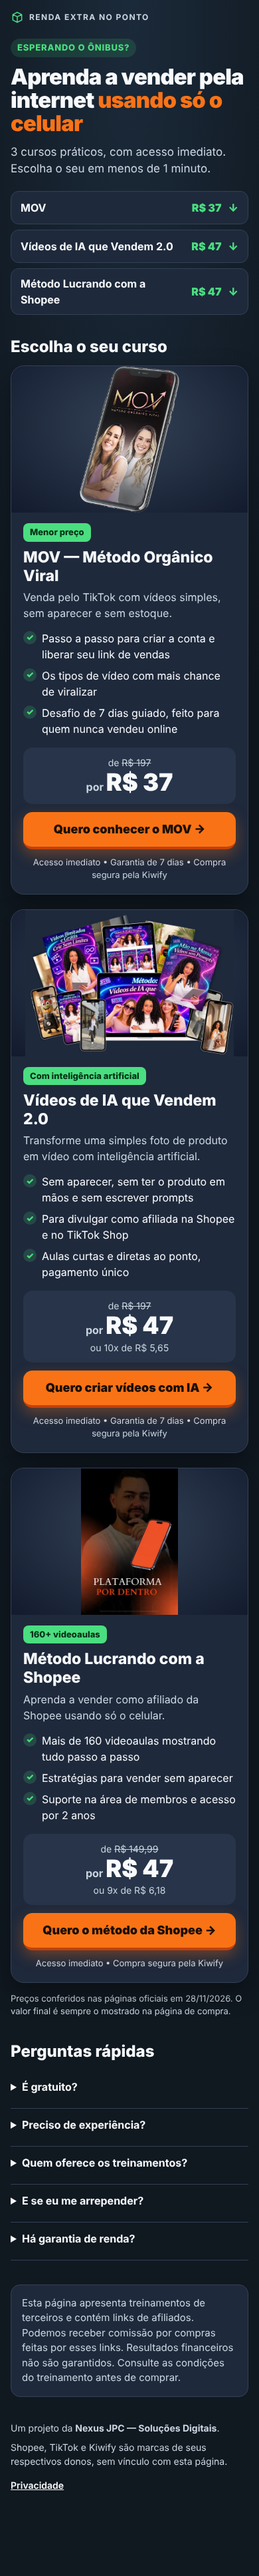
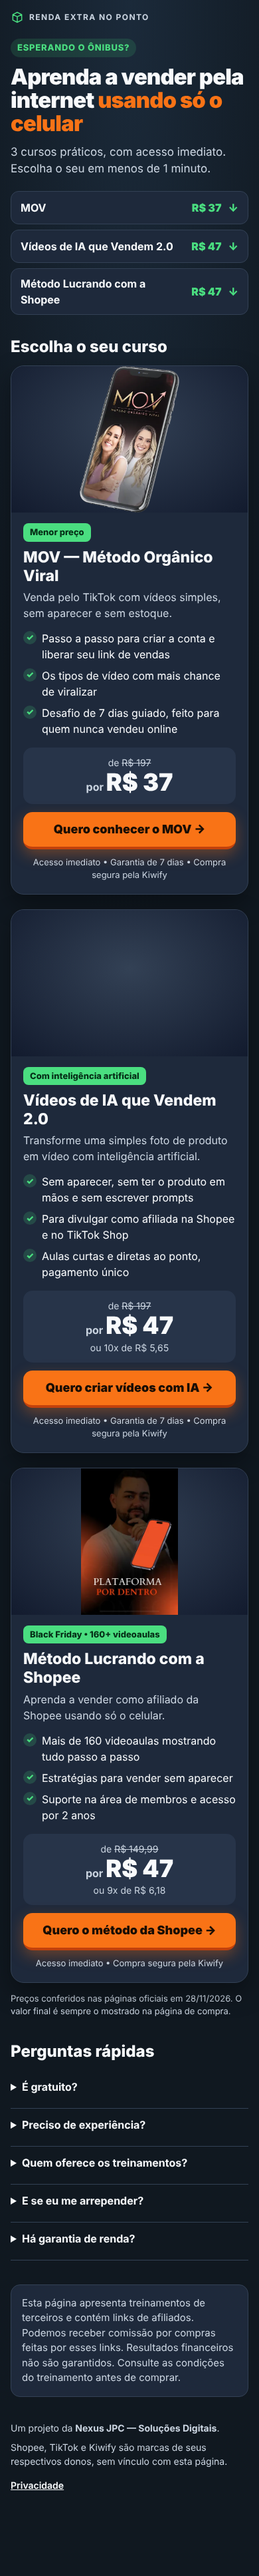
feat: preco promocional com data de fim (Shopee Black Friday) e tutorial do GA4
Claude-Session: https://claude.ai/code/session_01BcXwtmnyrDftFNMVLoomJm

Changed region(s): [[0.1231, 0.3411, 0.8923, 0.4341], [0.4, 0.6202, 0.6462, 0.6512]]

diff --git a/public/offers.js b/public/offers.js
@@ -18,6 +18,8 @@
  *   link            link de afiliado completo. Preservar o afid. Não adicionar UTMs.
  *   cta             texto do botão.
  *   imagem          imagem oficial do curso (em img/). Usar só material do produtor.
+ *   promo           opcional: { selo, preco, precoDe, parcelas, ate }. Até a data "ate" a página
+ *                   mostra o preço promocional; depois volta sozinha ao preço normal.
  *
  * Conferido nas páginas oficiais dos produtores em 28/11/2026.
  */
@@ -77,9 +79,12 @@ window.OFFERS = [
       'Estratégias para vender sem aparecer',
       'Suporte na área de membros e acesso por 2 anos'
     ],
-    preco: 'R$ 47',
-    precoDe: 'R$ 149,99',
-    parcelas: 'ou 9x de R$ 6,18',
+    // Preço normal (volta sozinho quando a promoção acaba)
+    preco: 'R$ 149,99',
+    precoDe: '',
+    parcelas: '',
+    // Black Friday: vale até a data/hora de "ate" (horário de Brasília). Para encerrar antes, apague o bloco promo.
+    promo: { selo: 'Black Friday', preco: 'R$ 47', precoDe: 'R$ 149,99', parcelas: 'ou 9x de R$ 6,18', ate: '2026-11-30T23:59:00-03:00' },
     precoConfirmado: true,
     garantia: false,
     link: 'https://kiwify.app/m0mn4dS?afid=ANrYBM87',

diff --git a/public/app.js b/public/app.js
@@ -25,6 +25,15 @@
   const list = document.getElementById('offer-list');
   const offers = (window.OFFERS || [])
     .filter((o) => o && o.ativo && /^https:\/\//.test(o.link || ''))
+    .map((o) => {
+      const p = o.promo;
+      const end = p && Date.parse(p.ate);
+      if (!p || !end || Date.now() > end) return o;
+      return Object.assign({}, o, {
+        preco: p.preco || o.preco, precoDe: p.precoDe || '', parcelas: p.parcelas || '',
+        selo: p.selo ? p.selo + (o.selo ? ' • ' + o.selo : '') : o.selo
+      });
+    })
     .sort((a, b) => (a.ordem || 0) - (b.ordem || 0));
 
   const el = (tag, attrs, children) => {

diff --git a/TUTORIAL-ANALYTICS.md b/TUTORIAL-ANALYTICS.md
@@ -1,0 +1,51 @@
+# Tutorial: Google Analytics 4 para a Renda Extra no Ponto
+
+Você só precisa **criar a conta e copiar um código**. A instalação na página fica com o Claude (ou você troca uma linha em `config.js`).
+O Google muda os nomes dos menus de vez em quando; se algo estiver diferente, procure o nome mais parecido.
+
+## Parte 1 — Criar (uns 10 minutos, no computador)
+
+1. Abra **https://analytics.google.com** e entre com a conta Google da empresa.
+2. **Primeira vez no Analytics?** Clique em **"Começar a medir"**.
+   **Já usa para outro site?** Clique na **engrenagem ⚙ "Administrador"** (canto inferior esquerdo) → botão azul **"+ Criar"** → **"Propriedade"**.
+   > Não mexa nas propriedades dos outros sites. Esta será uma propriedade nova, só deste projeto.
+3. **Conta** (só se pedir): nome `Nexus JPC`. Deixe as caixas de compartilhamento como estão → **Avançar**.
+4. **Propriedade**:
+   - Nome: `Renda Extra no Ponto`
+   - Fuso horário: **Brasil – Horário de Brasília**
+   - Moeda: **Real brasileiro (R$)**
+   → **Avançar**.
+5. **Detalhes da empresa**: setor "Compras" ou "Educação" (tanto faz), tamanho "Pequena" → **Avançar**.
+6. **Objetivos**: marque **"Gerar leads"** ou **"Entender o tráfego da Web"** → **Criar**. Aceite os termos.
+7. **Coleta de dados** → escolha **"Web"**:
+   - URL do site: `https://rendaextra.nexusjpc.com.br`
+   - Nome do stream: `Renda Extra no Ponto`
+   - Deixe a "Medição otimizada" ligada → **Criar e continuar** (ou "Criar stream").
+8. Vai aparecer uma tela com **"ID da métrica"** começando com **G-** (ex.: `G-AB12CD34EF`).
+   **Copie esse código e mande para o Claude.**
+   Se aparecer uma tela de "instruções de instalação", pode fechar: não precisa instalar nada.
+
+> Perdeu a tela? Engrenagem ⚙ **Administrador** → **Streams de dados** → clique em "Renda Extra no Ponto" → o **ID da métrica** fica no canto superior direito.
+
+## Parte 2 — Testar (depois que o código estiver na página)
+
+1. No Analytics, abra **Relatórios → Tempo real**.
+2. No celular, escaneie o QR (ou abra `https://rendaextra.nexusjpc.com.br/?utm_source=ponto_onibus&utm_medium=qr&utm_campaign=renda_extra`).
+3. Toque em **"Aceitar"** no aviso de cookies e depois em um curso.
+4. Em até 1 minuto devem aparecer, no cartão **"Contagem de eventos"**: `page_view`, `qr_visit` e `offer_click`.
+
+## Parte 3 — Consultar no dia a dia
+
+- **Quantas pessoas vieram pelo QR:** Relatórios → **Engajamento → Eventos** → linha **`qr_visit`**.
+- **Quantos cliques nos cursos:** mesma tela → linha **`offer_click`**.
+- **Qual curso foi mais clicado** (opcional, uma vez só):
+  1. Engrenagem ⚙ **Administrador** → **Definições personalizadas** → **Criar dimensões personalizadas**.
+  2. Nome `Curso`, escopo **Evento**, parâmetro do evento `offer_id` → **Salvar**.
+  3. Após 24–48 h: Relatórios → Engajamento → Eventos → clique em `offer_click` → veja a lista por **Curso** (`mov`, `videos_ia`, `shopee`).
+- Os relatórios normais levam **até 24–48 horas** para mostrar dados novos. Para conferir na hora, use **Tempo real**.
+
+## Leia os números assim
+
+- `qr_visit` = visitas que vieram do QR **e aceitaram cookies**. Quem recusa ou usa bloqueador não é contado; o número real é maior.
+- `offer_click` = cliques no botão de um curso. **Clique não é venda.** Vendas e comissões ficam na **Kiwify**.
+- Não é preciso configurar "conversões" nem "compras" no Analytics.

diff --git a/ATUALIZAR-OFERTAS.md b/ATUALIZAR-OFERTAS.md
@@ -26,7 +26,15 @@ Trocar curso, link ou preço **não exige novo QR Code**. Edite somente `public/
 - O `.htaccess` manda o navegador revalidar `offers.js`, então a troca aparece na hora. Se a Hostinger tiver cache (LiteSpeed/CDN) ligado, limpe o cache do subdomínio no hPanel.
 - Se mudar o texto `nome`, os relatórios do GA4 passam a mostrar o novo `offer_name`; o `offer_id` continua o mesmo.
 
-## Atenção aos preços promocionais
+## Preços promocionais (campo `promo`)
 
-Em 28/11/2026 o Método Lucrando com a Shopee anunciava "oferta Black Friday, válida somente hoje" (de R$ 149,99 por R$ 47).
-Confira o preço com frequência. Se voltar a R$ 149,99, atualize `preco`, `precoDe` e `parcelas` (ou use `precoConfirmado: false`).
+Para uma promoção com data para acabar, preencha `promo` com o preço promocional e a data final:
+
+```js
+promo: { selo: 'Black Friday', preco: 'R$ 47', precoDe: 'R$ 149,99', parcelas: 'ou 9x de R$ 6,18', ate: '2026-11-30T23:59:00-03:00' },
+```
+
+Até `ate` (horário de Brasília) a página mostra o preço promocional; depois volta sozinha ao `preco` normal, sem precisar publicar nada.
+Se a promoção acabar antes, apague a linha `promo` (ou mude a data) e envie `offers.js`.
+
+Hoje: Método Lucrando com a Shopee em Black Friday (R$ 47) até 30/11/2026 23h59; depois, R$ 149,99.

diff --git a/README.md b/README.md
@@ -40,6 +40,7 @@ node ferramentas/testar.js
 
 - [DEPLOY-HOSTINGER.md](DEPLOY-HOSTINGER.md) — publicação isolada, backup e rollback.
 - [ATUALIZAR-OFERTAS.md](ATUALIZAR-OFERTAS.md) — trocar links, preços ou cursos sem reimprimir o QR.
+- [TUTORIAL-ANALYTICS.md](TUTORIAL-ANALYTICS.md) — criar o Google Analytics passo a passo e ler os números.
 - [relatorios/RELATORIO-TESTES.md](relatorios/RELATORIO-TESTES.md) — testes realizados e pendências reais.
 
 ## URL do QR (não alterar depois de imprimir)
